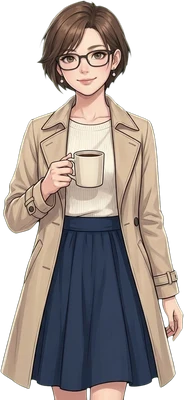
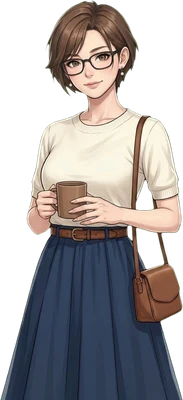
しおりのお出かけの服からコートを外す (#114)
* マイページで担当者の名前を入れられるようにする

Claude-Session: https://claude.ai/code/session_01Dfj8uCgoFYmBxr41ojgaov

* 案内役を しおり・源さん・こゆき（オコジョ）から選べるようにする

男の人とオコジョの絵は Gemini で15表情ずつ作り、背景を抜いて透過にした。
マイページで選ぶと、ログイン後の画面の絵と顔のアイコンがかわる。

Claude-Session: https://claude.ai/code/session_01Dfj8uCgoFYmBxr41ojgaov

* 案内役の服を選べるようにする（しおり5着・源さん2着・おまかせ）。源さんを白髪まじりのベテラン職人に

Claude-Session: https://claude.ai/code/session_01Dfj8uCgoFYmBxr41ojgaov

* スーツのしおりを Gemini で作り直す（ほかの服と同じ顔に）

Claude-Session: https://claude.ai/code/session_01Dfj8uCgoFYmBxr41ojgaov

* 案内役の服に 体操着 と お出かけ を足す（しおり・源さん）

Claude-Session: https://claude.ai/code/session_01Dfj8uCgoFYmBxr41ojgaov

* しおりのお出かけの服からコートを外す

Claude-Session: https://claude.ai/code/session_01Dfj8uCgoFYmBxr41ojgaov

---------

diff --git a/src/lib/guideWidths.ts b/src/lib/guideWidths.ts
@@ -9,7 +9,7 @@ export const GUIDE_WIDTHS: Record<string, Record<string, number>> = {
   "shiori": {"ask": 193, "bow": 153, "cheer": 239, "coffee": 188, "idea": 209, "jersey-cheer": 238, "jersey-done": 200, "jersey-stretch": 295, "joy": 173, "point": 230, "right": 208, "sad": 191, "surprise": 241, "think": 186, "welldone": 173},
   "shiori-casual": {"ask": 256, "bow": 237, "cheer": 224, "coffee": 210, "idea": 212, "joy": 197, "point": 245, "right": 218, "sad": 198, "surprise": 289, "think": 191, "welldone": 194},
   "shiori-gym": {"ask": 245, "bow": 175, "cheer": 267, "coffee": 175, "idea": 202, "joy": 167, "point": 243, "right": 212, "sad": 169, "surprise": 250, "think": 163, "welldone": 170},
-  "shiori-out": {"ask": 227, "bow": 183, "cheer": 223, "coffee": 184, "idea": 190, "joy": 176, "point": 210, "right": 185, "sad": 184, "surprise": 229, "think": 184, "welldone": 182},
+  "shiori-out": {"ask": 235, "bow": 185, "cheer": 201, "coffee": 183, "idea": 184, "joy": 184, "point": 225, "right": 189, "sad": 184, "surprise": 254, "think": 184, "welldone": 184},
   "shiori-summer": {"ask": 215, "bow": 156, "cheer": 181, "coffee": 154, "idea": 170, "joy": 153, "point": 250, "right": 161, "sad": 146, "surprise": 187, "think": 154, "welldone": 158},
   "shiori-winter": {"ask": 259, "bow": 224, "cheer": 249, "coffee": 227, "idea": 240, "joy": 226, "point": 260, "right": 243, "sad": 221, "surprise": 275, "think": 215, "welldone": 226},
   "shiori-work": {"ask": 245, "bow": 256, "cheer": 264, "coffee": 243, "idea": 256, "joy": 220, "point": 278, "right": 256, "sad": 241, "surprise": 274, "think": 238, "welldone": 220},

diff --git a/docs/HANDOFF.md b/docs/HANDOFF.md
@@ -121,7 +121,7 @@
 
 ### 2026-11-07 CC（Claude、プロジェクトのスレッド）体操着とお出かけの服
 - ブランチ：claude/project-thread-fdzisk
-- 変更点：田村さん「あとは体操着、外行きの服」。しおり・源さんに 体操着（白T・紺のジャージのズボン）とお出かけ（しおり：トレンチコートとスカート、源さん：スエードの上着とチノパン）を Gemini で12表情ずつ追加。「おまかせ」は夏か冬の服がある案内役だけに出す
+- 変更点：田村さん「あとは体操着、外行きの服」。しおり・源さんに 体操着（白T・紺のジャージのズボン）とお出かけ（しおり：半そでのニットとスカート。田村さん「しおりコートいらない」でコートを外した、源さん：スエードの上着とチノパン）を Gemini で12表情ずつ追加。「おまかせ」は夏か冬の服がある案内役だけに出す
 - 確認結果：lint・型検査・テスト通過。絵の一覧を目で確認（しおりの体操着は全身で小さく見えたので、上半身で作り直した）
 
 ### 2026-11-07 CC（Claude、プロジェクトのスレッド）スーツのしおりを作り直す
